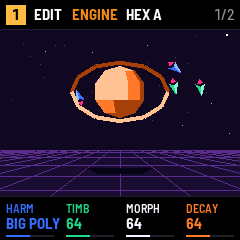
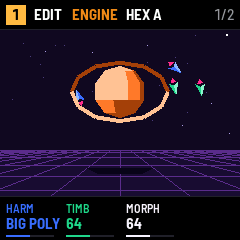
ENGINE has no DECAY on HEX A-C, WIRE, CHLADNI and the drums: it did nothing there, their MORPH sets how long they ring
Those engines are already enveloped: the LPG that DECAY sets is bypassed. K4 is blank and its turns ignored, as the
other hidden knobs.

Changed region(s): [[0.7583, 0.8458, 0.9917, 0.9917]]

diff --git a/app/ui.c b/app/ui.c
@@ -293,12 +293,16 @@ static int page_id(void)
 /* the page K1-K4 set, a step held aside: a KIT's pad held in EDIT gives its PAD page */
 static int knob_page(void) { return ui.domain == D_EDIT && ui.padheld && kit() ? P_PAD : page_id(); }
 
-/* a KIT: no T output to pick; no arp either */
+/* the engines with their own envelope: the ADSR shapes only their filter (6-OP, STRING, MODAL, the drums, the KIT) */
+static int own_env(int m) { return (m >= 2 && m <= 4) || m >= 19; }
+
+/* a KIT: no T output to pick; no arp either; an engine with its own envelope: no DECAY (the LPG it would set is bypassed) */
 static int knob_hidden(int pid, int k)
 {
     return (kit() && ((pid == P_MARBLES && k == 1) || pid == P_ARP))   /* a KIT has no arp */
            || (pid == P_INSERT && k < 3 && !*INS_LABEL[ui.p->sound[ui.track].itype][k])    /* no role: turns ignored */
            || (pid == P_SN1 && !k && kit())                                                 /* a KIT's pads stay */
+           || (pid == P_ENGINE && k == 3 && own_env(ui.p->sound[ui.track].model))
            || (kit() && (pid == P_LANES || pid == P_LENS || pid == P_ORBITS) && k == 1);                       /* a KIT: no base note, no OCT */
 }
 
@@ -2277,9 +2281,6 @@ static void hz_text(float f, char *b)
     *b = 0;
 }
 
-/* the engines with their own envelope: the ADSR shapes only their filter (6-OP, STRING, MODAL, the drums, the KIT) */
-static int own_env(int m) { return (m >= 2 && m <= 4) || m >= 19; }
-
 static void attr_text(const q_step *s, int a, char *b);
 
 /* the grid LIFE's scene shows: the render's run while the pattern shown plays, else the one its SEED and DENS
@@ -3652,6 +3653,7 @@ int ui_expect(const char *what, int *got)
     else if (!strcmp(what, "tune")) *got = s->tune;
     else if (!strcmp(what, "harm")) *got = s->harm;
     else if (!strcmp(what, "timb")) *got = s->timb;
+    else if (!strcmp(what, "decay")) *got = s->decay;
     else if (!strcmp(what, "names_wide")) {    /* the ENGINE choices' names wider than a footer column, at its least font */
         int i;
         for (*got = 0, i = 0; i < 96; i++)

diff --git a/app/docs/MANUAL.md b/app/docs/MANUAL.md
@@ -237,8 +237,8 @@ browses the models from any EDIT page.
 - Where HARM picks one of a few choices (a preset on HEX A–C, a chord on CHORALE, ENSEMBLE and ARCADE, a word bank on
   ORATOR past its blend of synths, from 43), each detent moves to the next choice and the footer shows its name; so
   does TIMB on ARCADE (its arpeggio).
-- **DECAY** sets how long a note rings after its gate closes, and the length of the model's own envelope on the models
-  that have one (HEX A–C, WIRE, CHLADNI and the drums).
+- **DECAY** sets how long a note rings after its gate closes. HEX A–C, WIRE, CHLADNI and the drums make their own
+  envelope: they have no DECAY (K4 is blank), and their MORPH sets how long they ring.
 - **TUNE** transposes the track. **GLIDE** slides from one note to the next; 0 is off.
 - **POLY** is how many notes the track plays at once. The keys get POLY notes of their own beside the pattern's, so
   a note you hold keeps sounding while the pattern plays (on a kit, a pad still cuts its sound's last hit). The four

diff --git a/app/docs/synth-fm.md b/app/docs/synth-fm.md
@@ -5,7 +5,7 @@
 FM makes its sounds by letting sine waves bend each other's pitch: bells, electric pianos, glassy keys, punchy basses
 and brass. MOON is a simple two-operator FM synth built from scratch with the knobs; HEX A–C are six-operator FM with
 96 ready-made sounds from the classic six-operator banks. HEX A–C make their own envelope: ENV's ADSR then shapes
-only the filter, and MORPH stretches the preset's envelope.
+only the filter, MORPH stretches the preset's envelope, and ENGINE has no DECAY on them.
 
 The values below were measured on the note C3 with the two other knobs at 64. A change below 300 Hz is clear on
 headphones and faint on the FM-1's speaker.

diff --git a/app/docs/synth-drums.md b/app/docs/synth-drums.md
@@ -4,7 +4,7 @@
 
 The drums family is Plaits' three analog-style drums, each playable as a model on its own, and KIT, which puts sixteen
 of them on the keys as pads. The drums make their own envelope: ENV's ADSR then shapes only the filter, and MORPH (on a
-kit, the pad's DECAY) sets how long a hit rings.
+kit, the pad's DECAY) sets how long a hit rings: a drum played on its own has no DECAY on ENGINE.
 
 The values below were measured with the two other knobs at 64, the bass drum on C2 and the others on C3. A bass drum
 lives below 150 Hz: it is clear on headphones and faint on the FM-1's speaker; raise its TUNE or its HARM to hear it

diff --git a/app/docs/synth-physical.md b/app/docs/synth-physical.md
@@ -3,7 +3,7 @@
 [← Manual](index.html#s6)
 
 The physical family models a struck or plucked object and lets it ring: strings, marimbas, bells, metal. Both models
-make their own envelope: ENV's ADSR then shapes only the filter, and MORPH sets how long the object rings.
+make their own envelope: ENV's ADSR then shapes only the filter, and MORPH sets how long the object rings (ENGINE has no DECAY on them).
 
 The values below were measured on the note C3 with the two other knobs at 64. A change below 300 Hz is clear on
 headphones and faint on the FM-1's speaker.
